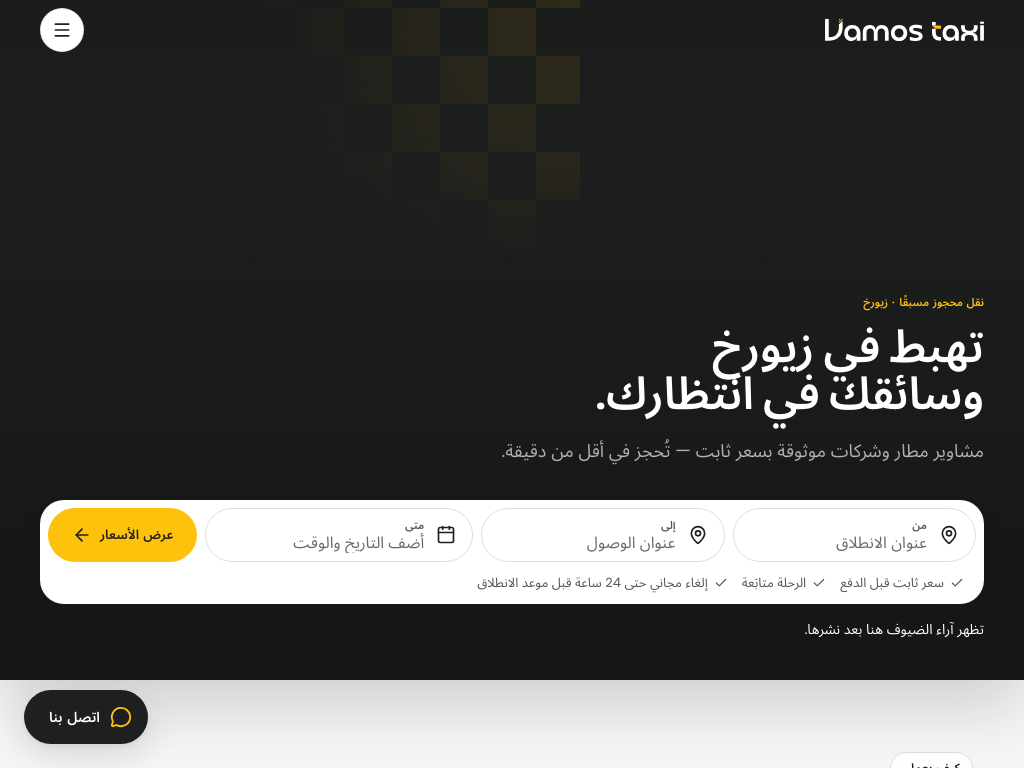
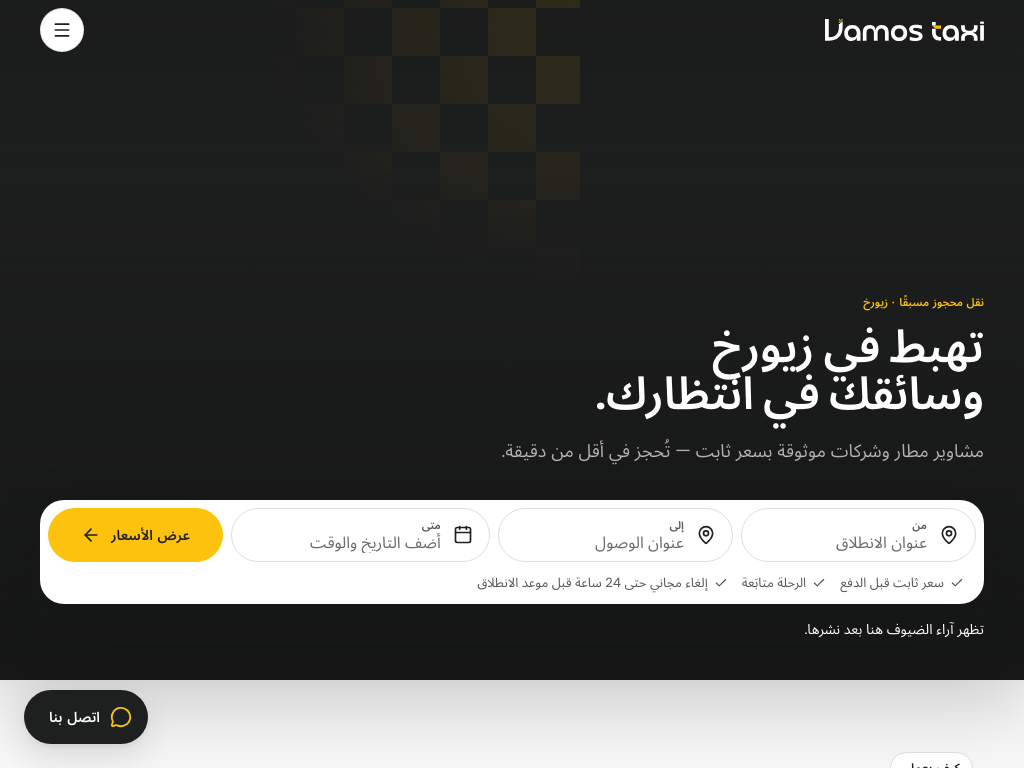
docs(planning): site-polish round 2 — verifier report; address list and tablet card proposals fixed

Changed region(s): [[0.0625, 0.6562, 0.2188, 0.75], [0.2812, 0.6562, 0.4688, 0.7188], [0.5625, 0.6875, 0.7188, 0.7188]]

diff --git a/.planning/quick/261003-site-polish/round2/R2-2/optB.css b/.planning/quick/261003-site-polish/round2/R2-2/optB.css
@@ -12,10 +12,9 @@
   [data-tseg-tx]{display:flex;flex-direction:column;min-inline-size:0;gap:1px}
   [data-tseg-k]{font-size:var(--vt-label-sm);line-height:14px;font-weight:var(--vt-label-weight);letter-spacing:var(--vt-label-tracking);text-transform:uppercase;color:var(--vt-text-secondary)}
   [data-tseg-v]{font-size:var(--vt-body-md);line-height:20px;color:var(--vt-text-muted);white-space:nowrap;overflow:hidden;text-overflow:ellipsis}
-  [data-tgo]{all:unset;box-sizing:border-box;display:inline-flex;align-items:center;justify-content:center;gap:var(--vt-space-2);block-size:var(--vt-control-h-lg);padding-inline:var(--vt-space-6);border-radius:var(--vt-radius-pill);background:var(--vt-accent);color:var(--vt-charcoal-900);font-family:var(--vt-font-body);font-size:var(--vt-label-md);font-weight:var(--vt-label-weight);letter-spacing:var(--vt-label-tracking);text-transform:uppercase;white-space:nowrap;cursor:pointer;transition:var(--vt-transition-control)}
-  [data-tgo]:hover{background:var(--vt-yellow-600)}
-  [data-tgo]:active{transform:translateY(1px)}
-  [data-tgo]:focus-visible{box-shadow:var(--vt-ring)}
+  /* CTA is the design-system Button (primary, lg), not a hand-built pill: hover = --vt-accent-hover from the kit itself */
+  [data-tgo]{display:flex;align-items:stretch}
+  [data-tgo] .vt-btn{inline-size:auto;white-space:nowrap}
   [data-bar-notes]{padding:var(--vt-space-3) var(--vt-space-3) var(--vt-space-3)}
   /* sheet: two columns */
   [data-bs-col]{max-inline-size:880px!important;display:grid!important;grid-template-columns:minmax(0,1fr) minmax(0,1fr);column-gap:var(--vt-space-10);row-gap:var(--vt-space-6);align-items:start}
@@ -30,5 +29,5 @@
 @media (min-width:681px) and (max-width:899px){
   [data-tseg-ic]{display:none}
   [data-tseg]{padding-inline:var(--vt-space-4)}
-  [data-tgo]{padding-inline:var(--vt-space-5)}
+  [data-tgo] .vt-btn{padding-inline:var(--vt-space-5)}
 }

diff --git a/.planning/quick/261003-site-polish/round2/R2-2/optB.js b/.planning/quick/261003-site-polish/round2/R2-2/optB.js
@@ -6,8 +6,11 @@
   const seg = (icon, k, v) => `<button type="button" data-tseg="1"><span data-tseg-ic="1" aria-hidden="true" style="--ic:url(/assets/icons/${icon}.svg)"></span><span data-tseg-tx="1"><span data-tseg-k="1">${t(k)}</span><span data-tseg-v="1">${t(v)}</span></span></button>`;
   const strip = document.createElement('div');
   strip.setAttribute('data-tbar', '1');
-  strip.innerHTML = seg('map-pin', 'From', 'Pickup address') + seg('map-pin', 'To', 'Drop-off address') + seg('calendar', 'When', 'Add date and time') +
-    `<button type="button" data-tgo="1">${t('See prices')}<span data-tseg-ic="1" aria-hidden="true" style="--ic:url(/assets/icons/arrow-right.svg)"></span></button>`;
+  strip.innerHTML = seg('map-pin', 'From', 'Pickup address') + seg('map-pin', 'To', 'Drop-off address') + seg('calendar', 'When', 'Add date and time') + '<div data-tgo="1"></div>';
+  /* Picture only: clone the kit Button the card already renders. The coder uses
+     <x-import component-from-global-scope="VamosTaxiDesignSystem_245af1.Button" variant="primary" size="lg" iconEnd="arrow-right" onClick="{{ openFromHero }}"> instead. */
+  const kit = document.querySelector('[data-bookcard] [data-bx="cta"] .vt-btn').cloneNode(true);
+  kit.style.width = 'auto'; strip.querySelector('[data-tgo]').appendChild(kit);
   strip.addEventListener('click', open);
   wrap.insertBefore(strip, wrap.firstChild);
 })();

diff --git a/.planning/quick/261003-site-polish/round2/R2-1/proposal.css b/.planning/quick/261003-site-polish/round2/R2-1/proposal.css
@@ -13,7 +13,7 @@
 [data-sug-hit]{font-weight:700;color:var(--vt-text-primary);background:transparent}
 [data-sug-sub]{font-size:var(--vt-body-xs);line-height:1.3;font-weight:400;color:var(--vt-text-muted)}
 /* Kind label at the end: AIRPORT / HOTEL / STATION / ADDRESS / CITY — what the glyph means, in words. */
-[data-sug-kind]{flex:0 0 auto;font-size:10px;line-height:1;letter-spacing:var(--vt-label-tracking);text-transform:uppercase;font-weight:var(--vt-label-weight);color:var(--vt-text-muted)}
+[data-sug-kind]{flex:0 0 auto;font-size:var(--vt-label-sm);line-height:1;letter-spacing:var(--vt-label-tracking);text-transform:uppercase;font-weight:var(--vt-label-weight);color:var(--vt-text-muted)}
 /* Hover (pointer devices) and keyboard-active row share one look: grey fill, inverted tile. */
 @media (hover:hover) and (pointer:fine){[data-sug-row]:hover{background:var(--vt-grey-50)}}
 [data-sug-row][aria-selected=true]{background:var(--vt-grey-100)}
@@ -45,4 +45,5 @@
 /* Key hints only where there is a keyboard */
 @media (hover:none){[data-sug-foot]{display:none}}
 /* Mixed-script lines (Latin name/postcode inside an Arabic page) keep their own reading order, aligned to the inline start. */
+/* Applies to BOTH lists (desktop dropdown and sheet): the rule is global, not scoped to [data-sug]. */
 [dir="rtl"] [data-sug-name],[dir="rtl"] [data-sug-sub]{direction:ltr;text-align:end}

diff --git a/.planning/quick/261003-site-polish/round2/R2-1/i18n.js b/.planning/quick/261003-site-polish/round2/R2-1/i18n.js
@@ -3,7 +3,7 @@ module.exports = {
   "Hotel": { de: "Hotel", fr: "Hôtel", ar: "فندق" },
   "Station": { de: "Bahnhof", fr: "Gare", ar: "محطة" },
   "Address": { de: "Adresse", fr: "Adresse", ar: "عنوان" },
-  "City": { de: "Ort", fr: "Ville", ar: "مدينة" },
+  "City": { de: "Stadt", fr: "Ville", ar: "مدينة" },
   "Place": { de: "Ort", fr: "Lieu", ar: "مكان" },
   "Popular": { de: "Beliebt", fr: "Populaires", ar: "الأكثر طلبًا" },
   "Try the street and city, a hotel name or an airport code.": { de: "Versuchen Sie Strasse und Ort, einen Hotelnamen oder einen Flughafencode.", fr: "Essayez la rue et la ville, un nom d'hôtel ou un code d'aéroport.", ar: "جرّب الشارع والمدينة أو اسم فندق أو رمز مطار." },

diff --git a/.planning/quick/261003-site-polish/round2/VERIFY.md b/.planning/quick/261003-site-polish/round2/VERIFY.md
@@ -1,0 +1,93 @@
+# Round 2 verification — quick 261003-site-polish
+
+Verifier, 2026-10-03 21:40 +04. Worktree `.claude/worktrees/site-polish`, HEAD `c8b3bfec`. I read every proposal, its CSS and JS, and the
+i18n file. I opened 21 sample pictures. I grepped tokens, laws and the users of every selector the proposals touch. I measured one thing
+live, on the served mirror at port 4911 (started by me and killed by PID): the R2-3 root cause. No product file was edited.
+
+## Summary
+
+| # | Comment | Verdict | Blocking |
+|---|---|---|---|
+| 1 | Address list | PASS with one fix | Arabic sheet pictures show the postcode at the wrong end ("Kloten, Switzerland 8302"). The RTL rule does not reach the sheet. |
+| 2 | Tablet card | FAIL until fixed | No file list and no test list. Option B uses `--vt-yellow-600` (renders brown #D19C04 on home). Option A overturns signed decision 26.4 D-01 and does not say so. |
+| 3 | Route rows | PASS | None. The root-cause claim is true for home only, not "every page" (details below). |
+| 4 | Reviews drift | PASS with notes | None blocking. Option B pictures cover only 1440 and 390. |
+| 5 | Remove ClosingCta | PASS | None. |
+
+## 1 · Address list (R2-1)
+
+- PASS: answers the owner's words. The icon now comes from the real Mapbox type (`feature_type`, `poi_category[]`, `maki`), not from guessing on the text, and the list is redesigned. The extras are marked OPTIONAL: Popular group, dropping the re-sort, skeleton/empty states. The owner must decide them; they are not part of his ask.
+- PASS: pictures exist for before and after at 1440/1024/768/390, en and ar, plus states. No frames, no sideways overflow.
+- FAIL (fix before code): in `R2-1-after-ar-768.png` (the sheet) the sub lines read "Kloten, Switzerland 8302" and "Zürich, Switzerland 8001", so the postcode jumped to the end. The desktop picture `R2-1-after-ar-1440.png` is correct ("8302 Kloten, Switzerland"). `[dir=rtl] [data-sug-sub]{direction:ltr}` does not take effect in the BookingSheet rows. The coder must check it in the sheet. The likely cause is the sheet row's own inline styles or structure.
+- PASS: Lucide names `bed`, `train-front` and `map` are real Lucide icons. The path data in proposal.js matches Lucide `bed` and `train-front`. The repo does not have them yet: only `map-pin.svg` is in `assets/icons/`. The coder must vendor the real files verbatim from lucide-icons/lucide (ISC), not the hand-copied paths.
+- PASS: laws. No glow, no tint, no gradient, no hex. Every `--vt-*` token used exists.
+- NOTE: the kind label and the group head use a hard `font-size:10px`. The group head already uses 10px today. Prefer `var(--vt-label-sm)` (11px), so it is a token and not below the label scale.
+- NOTE: i18n. Eight keys plus one pattern, with de/fr/ar, Swiss German. None collides with an existing dict key. "City" and "Place" both translate to German "Ort", so two kinds get the same German label. Suggest City = "Ort" and Place = "Ort von Interesse", or merge the two kinds. The pattern must become a regex literal, as in the dict.
+- NOTE: the claim that the desktop list has no `data-vt-no-i18n` is true: `home.dc.html:430` has none, while the sheet (`BookingSheet.dc.html:142/162`) does. The row's `title="{{ s.full }}"` sits outside the protected block, so the runtime may still translate the place name in the tooltip.
+- NOTE, feasibility: the file list misses `apps/web/app/api/geo/suggest/route.ts` and `lib/geo/session.test.ts` by name, and `BookingSheetStates.dc.html` (states gallery). The ops screens `PlaceSearch`, `OpsNewTrip` and `OpsTable` call the same `/api/geo/suggest`. The new field is additive, so they are unaffected. BookingSheet has no `app/pages` twin (checked).
+- NOTE, cross-job: the 1024 and 768 pictures show the sheet. If the owner picks R2-2 option A, those widths get the desktop dropdown in the card instead. R2-1, R2-2 and R2-5 all edit `app/home/home.dc.html`, so they must run one after another, not in parallel.
+
+## 2 · Tablet booking card (R2-2)
+
+- PASS: answers "redesign #book on tablet 768–1080". There are two options, with A recommended.
+- PASS: pictures for before, A and B at 1440, 1081, 1024×1366, 1024×768, 820, 768, 680 and 390, in en and ar, including flight and sheet states. Pictures at 390 and 680 are byte-identical to before for both options, so the phone is unchanged. Pictures at 1440 and 1081 en are identical to the eye; the md5 differences are rendering noise.
+- PASS: field order Flight→From→To→When→Travellers holds (`R2-2-optA-ar-1024x768-flight.png`: Flight on top, then From/To, then When/Travellers/CTA). One-way only, 54px fields and CTA, no amounts shown.
+- FAIL, signed decision: option A brings the card back at 681–1080. That supersedes 26.4 D-01 (`.planning/phases/26.4-one-form-phone-booking/26.4-CONTEXT.md:21`: "Phone (390) AND tablet (768) get … ONE bar"). The proposal must say so plainly, and the owner must sign the supersede. Option B keeps the decision.
+- FAIL, law: `optB.css:16` `[data-tgo]:hover{background:var(--vt-yellow-600)}`. On home, `--vt-yellow-600` computes to #D19C04, a brownish tone (see R2-3 finding). Use `var(--vt-accent-hover)` (yellow-500). Option B also restyles a pill button from scratch (`[data-tgo]` with `all:unset`). Project rule: use the design-system `Button`, not a local copy.
+- FAIL, feasibility: there is no list of files or tests. What I found:
+  - Option A, `app/home/home.dc.html`. `NARROW()` (l.1158) feeds every `narrow` use: dest-pick (l.1261), resize (l.1362), hash landing (l.1308), the dock (l.1952), flight logic (l.2167), the `#book` id switch (l.2348) and the trust row (l.2395). Also the matchMedia list at l.1376, the bar block at l.291–308, the `#book` rules at ≤1079 (l.211, l.241), and the hero min-height at l.218. `SiteHeader`'s own 1079/1080 switch is independent. `data-only-wide` and `data-upto-wide` have no users.
+  - Option A breaks these tests: `tests/unit/home-one-form-264.test.ts:54-55` asserts the literal `(max-width:1080px)` strings. These tablet-width specs must be redone: `tests/visual/home-booking-sheet.spec.ts` (l.128–143 "at 1080px and under the bar replaces the box"), `home-laptop-bar.spec.ts`, `home-phone-hero.spec.ts`, `home-sheet-history-bp2.spec.ts`, `booking-bar-states.spec.ts`, `booking-sheet-states.spec.ts`.
+  - Option B: `BookingBar.dc.html` (new `variant="strip"` plus the dock copy), `BookingSheet.dc.html` (two-column layout), `BookingBarStates.dc.html` / `BookingSheetStates.dc.html` (galleries), `home.dc.html`, and the same visual specs.
+- PASS: option B claims no new strings. Verified: From, To, When, Pickup address, Drop-off address, Add date and time and See prices all exist in the dict.
+- NOTE: in the option B sheet in Arabic, the "Who" heading reads "من", the same word as "From". This string is already live today, but the two-column layout puts the two words side by side.
+
+## 3 · "Where we drive" rows (R2-3)
+
+- PASS: "change the hover completely". A gives a charcoal fill, white text, yellow arrows and a 4px chevron nudge. B gives a full #FDC20B fill with charcoal text. Rest, hover, focus-visible and press states are on one board. Hover applies only under `(hover:hover)`. Reduced motion is honoured.
+- PASS: pictures for before (rest and hover), A hover, B hover and states, at all four widths, en and ar.
+- PASS: laws. Every colour is a token. Focus uses `--vt-ring` (A) or a 2px charcoal inset (B), with no glow. `--vt-accent-hover` is yellow-500, which is allowed. Text sits on logical properties. The coder touches CSS only, in the byte-identical twins `app/home` and `app/pages/WhereWeDrive.dc.html` (verified identical). No markup, no strings. The `bookClick` interceptor skips `[data-ww-row]` (`home.dc.html:1986`), and a CSS-only change does not affect it.
+- NOTE: B makes a full row yellow. That is a large surface for an accent the design system calls "small".
+- NOTE, pre-existing bug the proposal says is fine: in Arabic the route arrow points the wrong way at every width, before and after (`R2-3-before-rest-ar-1440.png` and `-768.png` both show "مطار زيورخ → زيورخ", so it points toward the airport). The `[dir=rtl] [data-ww-arrow]{transform:scaleX(-1)}` rule is not taking effect on the arrow; the chevron does mirror. Worth fixing in the same CSS pass.
+
+### R2-3 root-cause claim: true, but on home only
+
+Measured on the served mirror at 1440:
+
+| page | first stylesheets in `<head>` | `--vt-yellow-700` | `--vt-yellow-100` | row hover colour |
+|---|---|---|---|---|
+| `/app/home/home.html` | styles.css, then fonts, **colors.css**, … | #A67B05 | #FEF3CD | rgb(166,123,5) |
+| `/app/pages/about.html` (same WhereWeDrive) | fonts, colors.css, … , styles.css | #2B2D2C | #F6F6F6 | rgb(43,45,44) |
+
+How it happens: `app/support.js` mounts helmet `<link>`s in order and skips any href it has already mounted (`mounted.has(key)`).
+- `home.dc.html` is the only public page whose helmet links `styles.css` alone, with laws.css @imported last inside it (l.86).
+- The first child component on home links the single token files and then `styles.css`. Its `colors.css` is new, so it is appended *after* the laws, and its `styles.css` is skipped as a duplicate.
+- Every other public page links the token files *before* `styles.css` in its own helmet, so the laws stay last.
+- The ops files link neither.
+
+So the law-02 alias is dead on the whole home page. Every `a:hover`, every cream tint and every `-600/-700` there renders raw. It is not dead "on every page", as the proposal says. The builder's suggested site-wide fix, "add a `tokens/laws.css` link last in each helmet", would not fix home: child helmets mount later and would still append `colors.css` after it. The working fix is one change in `home.dc.html`'s helmet: link the token files before `styles.css`, as `about.dc.html` does (l.20–26). Any child `colors.css` is then a duplicate and is skipped.
+
+## 4 · Reviews wall drift (R2-4)
+
+- PASS: matches the owner's words. With more reviews the wall drifts slowly by itself. It pauses on `:hover` (and `:focus-within`), and stands still under reduced motion with every review shown. It is plain CSS keyframes on a transform inside a clipped (`overflow:hidden`) wall. There is no scroll library, no scroll handler and no write to `<html>`; the only JS is a matchMedia listener for the column count. Clones are `aria-hidden` and `inert`, and hidden under reduced motion.
+- PASS: option A pictures at all four widths, en and ar, three time frames, plus reduced motion and the static 6-review case. Option B pictures cover only 1440 and 390 (NOTE), and the static-6 Arabic picture only 1440.
+- NOTE, laws: the edge fade is a `mask-image: linear-gradient(... #000 ...)`. That is an alpha mask and adds no colour, so I read it as not a "decorative gradient". The owner decides; the hard-crop fallback (delete two lines) is offered. Option B uses physical `margin:0 var(--vt-space-5) 0 0` and an RTL override; use `margin-inline-end` instead.
+- NOTE: the CSS comment "the wall must not clip a focused link" has no rule under it. A tabbed-to card can sit under the fade or be clipped. Either add `scroll-margin` / un-pause handling, or drop the comment.
+- NOTE: `Reviews` is mounted on home, about, contact and faq (`app/pages/*.dc.html`), so the drift appears on all four. The twins `app/home` and `app/pages/Reviews.dc.html` are byte-identical (verified). No existing test reads `data-rv-wall`.
+- NOTE: in `R2-4-optA-14-t0-ar-1440.png` the sticky header covers the section heading. This is an artefact of how the picture was taken, not the design.
+
+## 5 · Remove ClosingCta (R2-5)
+
+- PASS: removal only, no redesign. Pictures for before and after at all four widths, en and ar. The FAQ now flows straight into the footer band "Booked ahead, priced up front." with BOOK NOW (`SiteFooter.dc.html` has it).
+- PASS: feasibility. `ClosingCta` is imported only at `home.dc.html:597`, with no `app/pages` twin and nothing in apps/web, tests or scripts. Its two strings ("Your driver is waiting.", "Fixed price, booked in under a minute.") exist only in `app/vamos-i18n-dict.js:2434-2435`. They are not in `apps/web/i18n/messages` or `seed.sql`, so there is no seed regeneration. The hero line "Land in Zurich. Your driver is waiting." is a different key and stays.
+
+## Questions for the owner (one decision each)
+
+1. **Address list, kind of place**: may the server send the place type (airport, hotel, station, address, city) with each suggestion, so each icon is right? Recommended: yes. Example: "Baur au Lac" shows a bed and the label HOTEL instead of a pin.
+2. **Address list, Popular**: when From is empty and focused, show four ready picks (Zurich Airport, Geneva Airport, Basel Airport, Zurich HB)? Yes or no.
+3. **Address list, order**: keep Mapbox's own order, so the airport stays first when you type "zur", instead of today's re-sort by name? Recommended: yes.
+4. **Tablet card**: on tablets (768–1080 wide), A = the full booking card on the page, like the laptop, which replaces the "one bar + sheet" you signed in 26.4. B = keep the bar and sheet, with the bar showing From | To | When | SEE PRICES and the sheet in two columns. Recommended by the builder: A.
+5. **Route row hover**: A = the row turns charcoal with white text and yellow arrows. B = the row turns full yellow with charcoal text. Recommended: A.
+6. **Home colour law fix**: home is the one page where the "no cream, no brown" rule is switched off by a loading-order slip. The fix is one change in the home page's stylesheet order. Any cream or brown on home then becomes white, grey or charcoal, as on About. Fix it? Recommended: yes.
+7. **Reviews drift**: A = columns drift slowly upward (recommended), B = one row slides sideways.
+8. **Reviews, when**: start drifting above 6 published reviews? On phones, drift too or stay still? Recommended: above 6, and phones drift too (the builder's default).
+9. **Reviews edges**: soft fade at the top and bottom edge, or a hard cut? Recommended: soft fade.

diff --git a/.planning/quick/261003-site-polish/round2/R2-2/proposal.md b/.planning/quick/261003-site-polish/round2/R2-2/proposal.md
@@ -1,16 +1,53 @@
 # R2-2 — tablet booking card (681–1080 px)
 
-Today at 681–1080: the card is hidden; a "Where to?" bar (max 640, one line) + trust row sits in the hero, and tapping opens a full-screen sheet with one 560 px column
-(at 1024x768 the "Who" block is under the footer CTA, so the sheet scrolls).
+## Decision this changes (read first)
+Option A REPLACES the owner's signed 26.4 decision for tablets: `.planning/phases/26.4-one-form-phone-booking/26.4-CONTEXT.md:21` (D-01) says
+"Phone (390) AND tablet (768) get the new pattern: the hero shows ONE bar ... Laptop (>=1081) keeps the 26.3 home box". With A, tablets (681-1080) get the
+box again; only phones (<=680) keep one bar + sheet. A needs the owner's explicit word that D-01/D-02/D-05 no longer apply at 681-1080.
+Option B keeps D-01 (one bar + sheet on tablet) and redesigns the bar and the sheet.
 
-## A (recommended): the booking card returns at 681–1080, two-column grid
-- optA.css is the whole style change. Code change: `NARROW()` (home.dc.html ~l.1158) and the two `matchMedia('(max-width:1080px)')` sites (~l.1376) move from 1080 to 680;
-  `[data-bookcard]{display:none!important}` and the `@media (max-width:1080px)` bar block (l.291-308) become `max-width:680px`; the `#book` ≤1079 rules (l.211, l.241) become ≤680.
-- 681–899: rows  From swap To / When + Travellers / SEE PRICES (full width) / notes.  900–1080: From swap To / When, Travellers, SEE PRICES on one row / notes.
-- Flight row (when present) is full width on top, then From. One-way only, 54 px fields and CTA, field order unchanged. Phone (≤680) untouched.
-- The hero trust line (`[data-trust]`) shows again under the card (rule `[data-trust][data-in-bar="1"]` must be scoped to ≤680).
+Today at 681-1080: the card is hidden; a one-line "Where to?" bar (max 640) + trust line shows, tapping opens a one-column 560 px sheet that scrolls at 1024x768.
+Recommended: A.
 
-## B: keep bar + sheet, redesign both
-- optB.css + optB.js. Bar becomes one 54 px strip: From | To | When | SEE PRICES; any tap opens the sheet (BookingBar gets `variant="strip"`; dock follows it).
-- Sheet becomes two columns from 681: Where | When, Who full width below with Passengers | Bags side by side. Footer CTA widens to 880.
-- Needs new strings? No: From, To, Pickup address, Drop-off address, Add date and time, See prices all exist in the dictionary.
+## Option A: card returns at 681-1080 (two-column grid) — optA.css
+681-899: From swap To / When + Travellers / SEE PRICES full width / notes. 900-1080: From swap To / When, Travellers, SEE PRICES in one row / notes.
+Flight row (when present) is full width above From. One-way only, 54 px fields and CTA, signed field order kept. Phone (<=680) untouched.
+
+### Coder files (A)
+- `app/home/home.dc.html` (+ twin in `app/pages/` only if one exists; none known) — only file with product changes.
+- `apps/web/tests/unit/home-one-form-264.test.ts` lines 54-55: `matchMedia('(max-width:1080px)')` and `@media (max-width:1080px){\n[data-bookcard]{display:none!important}` become the 680 versions (title "uses one media boundary" stays true: one boundary, now 680).
+- `apps/web/tests/unit/home-laptop-bar-2641.test.ts` lines 4, 64-65: same two needles; comment line 4 and "<=1080 stays the 26.4 bar + sheet" updated; check the 1081/1359 `block` tests still match once the 681-1080 rules are added as their own block (keep them in a separate @media so lines 22-36 keep passing).
+- Strings: none new (all existing).
+
+### Every behaviour that depends on NARROW() / state.narrow in home.dc.html (all move from 1080 to 680; each needs a check at 681-1080 and at <=680)
+1. l.1158 `NARROW()` definition: `matchMedia('(max-width:1080px)')` -> `(max-width:680px)`.
+2. l.1218 initial state `narrow: NARROW()`.
+3. l.1261-1291 chip from HowItWorks/destinations (`if (narrow) this.openSheetAt(1)`): at 681-1080 the chip must fill To in the box and scroll to it instead of opening the sheet.
+4. l.1308 `#book` hash landing: offset `-(headerBottom()+16)` only when narrow; at tablet the box is `#book` and the overlay header is not sticky-docked, so offset -16 applies.
+5. l.1362-1369 resize handler: `narrow` flip, closes the sheet and clears suggestions when leaving narrow (l.1366), `flipped` resets for narrow entering; plus l.1376 `_mqs = ['(max-width:1080px)', '(min-width:1360px)']` -> 680.
+6. l.1952 `setupDock()`: IntersectionObserver docked bar only when narrow; at tablet no dock.
+7. l.1987 `#book` link interceptor (`bookClick`): swallows `/#book` links and opens the sheet when NARROW(); at tablet the link must just scroll to the box.
+8. l.2167 `componentDidUpdate`: flight field focus after an airport pick is skipped when narrow; at tablet it must run (focus moves to Flight number).
+9. l.2346 `dockShow` and l.2348 `barId/boxId` (`id="book"` goes to the bar when narrow, to the card otherwise) and l.2395 `trustInBar` (hero trust line hidden when in bar).
+10. CSS tied to the same boundary: l.211 (`#book` <=1079 rules), l.230/233 `data-only-wide`/`data-upto-wide`, l.241, l.218 (hero height `calc(100svh - 88px)` stays <=1080: keep at 1080, it is the hero, not the card), l.275-278 (>=681 grid, replaced by optA.css), l.290-308 bar/dock block (`max-width:1080px` -> 680), l.314-345 laptop rules (>=1081, unchanged).
+11. The 26.4 sheet (BookingSheet) is then only opened <=680; `home-sheet-history-bp2` behaviour (history entry on open) is unaffected.
+
+### Tests that will change (A)
+- `apps/web/tests/visual/home-laptop-bar.spec.ts`: "26.4 bar unchanged at 1080 and under" (l.~398-399, runs at 1024/768/390) and the resize test l.~348-367 (1181 -> 1024 expects `[data-bookcard]` hidden and `[data-bar-wrap] [data-bb]` visible) — expectations flip for 1024/768; 390 stays.
+- `apps/web/tests/visual/home-booking-sheet.spec.ts`: every project at 1024 and 768 (header l.9, `1080` boundary uses at l.116-536, 900 at l.315-351) — sheet specs at 1024/768 must move to the phone project (390) or be removed for tablet.
+- `apps/web/tests/visual/home-booking-box.spec.ts` (l.84 skips <=1080): now runs at 768 and 1024 too; add 768/1024 flight-order and traveller-popover cases.
+- `apps/web/tests/visual/home-one-way.spec.ts` (l.24 boundary 1080) and `home-phone-hero.spec.ts` (boundary 1080 at l.5,34,58,71,83,112): re-point to 680.
+- `apps/web/tests/visual/booking-bar-states.spec.ts` / `booking-sheet-states.spec.ts`: component galleries, unaffected.
+- Snapshots that change: `home-hero.spec.ts-snapshots/hero-*-component-1024|768-darwin.png` (all states: empty, filled, mount, sheet-closed, sheet-open, en/de/ar), `home.spec.ts-snapshots` and `home-widget.spec.ts-snapshots` at 1024/768. `home-no-dark-band-bp2.spec.ts` (768) re-check page end. Other home section snapshots (reviews, services, how-it-works, why-vamos) only if the hero height moves; it should not.
+
+## Option B: keep bar + sheet, redesign both — optB.css + optB.js
+Bar = one 54 px strip From | To | When | SEE PRICES; any tap opens the sheet. CTA is the design-system Button (primary, lg, iconEnd arrow-right), hover = `--vt-accent-hover` (#EDB306, checked in picture R2-2-optB-en-1024x768-hover.png). No `--vt-yellow-*` anywhere in either option.
+Sheet = two columns from 681 (Where | When, Who full width, Passengers | Bags side by side), footer CTA 880 wide; no scroll at 1024x768 and 768x1024.
+
+### Coder files (B)
+- `app/home/BookingBar.dc.html`: `variant="strip"` (segments + x-import Button), keeps `[data-bb]` for the phone variant; new aria: segments are buttons with aria-haspopup="dialog".
+- `app/home/BookingSheet.dc.html`: two-column CSS inside `@media (min-width:681px)` (selectors `[data-bs-col]`, `[data-bs-sec]`, `[data-bs-when]`, `[data-bs-msg]`, `[data-bs-next]`).
+- `app/home/home.dc.html`: pass the variant at 681-1080, `setupDock()` observes the strip (dock shows a compact bar under the header), trust/notes rows unchanged.
+- Strings: none new (From, To, Pickup address, Drop-off address, Add date and time, See prices exist).
+- Unit: `home-one-form-264.test.ts` l.54-55 and `home-laptop-bar-2641.test.ts` l.64-65 stay as is (boundary stays 1080).
+- Visual specs that change: `booking-bar-states.spec.ts` (new strip states, 54 px check), `booking-sheet-states.spec.ts` (two-column at 768/1024), `home-booking-sheet.spec.ts` (1024/768 layout assertions), `home-hero.spec.ts-snapshots` (1024/768 all states), `home-laptop-bar.spec.ts` l.~398-460 ("26.4 bar unchanged" at 1024/768).

diff --git a/.planning/quick/261003-site-polish/round2/R2-1/proposal.md b/.planning/quick/261003-site-polish/round2/R2-1/proposal.md
@@ -10,7 +10,7 @@
 7. Sheet (BookingSheet) rows are the same as desktop but without the group head, so the two lists drift.
 
 ## Proposal (one direction, both surfaces)
-- Row: 56px, no outline, 12px radius, 36px tile (grey-100, charcoal glyph), name 500 with the typed part 700, sub 13px muted, kind label at the end (10px uppercase muted: AIRPORT / HOTEL / STATION / ADDRESS / CITY / PLACE). The label says in words what the glyph means (also helps colour-blind / small-glyph reading).
+- Row: 56px, no outline, 12px radius, 36px tile (grey-100, charcoal glyph), name 500 with the typed part 700, sub 13px muted, kind label at the end (`--vt-label-sm` 11px uppercase muted: AIRPORT / HOTEL / STATION / ADDRESS / CITY / PLACE). The label says in words what the glyph means (also helps colour-blind / small-glyph reading).
 - Hover = grey-50 fill. Keyboard-active (`aria-selected=true`) = grey-100 fill + tile inverts to charcoal/white. No glow, no tint, no left accent.
 - Sub line = `context` (Mapbox `place_formatted`: "8302 Kloten, Switzerland"); hotels/pois: street + locality (`Talstrasse 1, 8001 Zurich`). Falls back to `address`.
 - Loading: 3 skeleton rows (grey-100 tile + two bars, pulse; static under reduced-motion).
@@ -57,7 +57,8 @@ Row (replace the inline-styled spans):
 Airport, Hotel, Station, Address, City, Place, Popular, No places found for, hint line. "Search results" exists already (`results`). The empty-state title is a concatenation -> pattern entry.
 
 ## Files the coder touches
-- apps/web/lib/geo/mapbox.ts (SuggestHit + mapSuggestion + kind derivation), apps/web/lib/geo/session.ts (publicSuggestion), their unit tests, any `/api/geo/suggest` contract test
+- apps/web/lib/geo/mapbox.ts (SuggestHit + mapSuggestion + kind derivation), apps/web/lib/geo/session.ts (publicSuggestion), apps/web/lib/geo/session.test.ts, apps/web/app/api/geo/suggest/route.ts, any `/api/geo/suggest` contract test
+- app/home/BookingSheetStates.dc.html (the sheet's states gallery: show kinds, active, loading, empty)
 - app/home/home.dc.html (+ twin check), app/home/BookingSheet.dc.html (+ twin app/pages if one exists), `hitsFor()` passes kind/pre/hit/post
 - assets/icons/bed.svg, train-front.svg, map.svg (+ apps/web/public copy via sync script)
 - app/vamos-i18n-dict.js (lead merges)
@@ -71,7 +72,7 @@ Airport, Hotel, Station, Address, City, Place, Popular, No places found for, hin
 
 ## Extra findings
 - Desktop list (home.dc.html `[data-sug]`) has no `data-vt-no-i18n` on the name/sub spans: in Arabic the live runtime translates Mapbox names ("Zurich Airport (ZRH)" came out as an Arabic name in the picture run). The sheet already protects them. Fix is part of the markup above.
-- RTL: Latin names/postcodes inside an Arabic page need `[dir=rtl] [data-sug-name],[data-sug-sub]{direction:ltr;text-align:end}` (in proposal.css) or the postcode jumps to the wrong end of "8302 Kloten".
+- RTL (sheet and dropdown share one global rule, re-shot in the sheet at 1024/768/390): Latin names/postcodes inside an Arabic page need `[dir=rtl] [data-sug-name],[data-sug-sub]{direction:ltr;text-align:end}` (in proposal.css) or the postcode jumps to the wrong end of "8302 Kloten".
 
 ## Recommendation
 Single direction (no A/B): one neutral tile + kind label + bold match is the quietest list that still tells hotel from street; keep the black tile only for the keyboard-active row.
